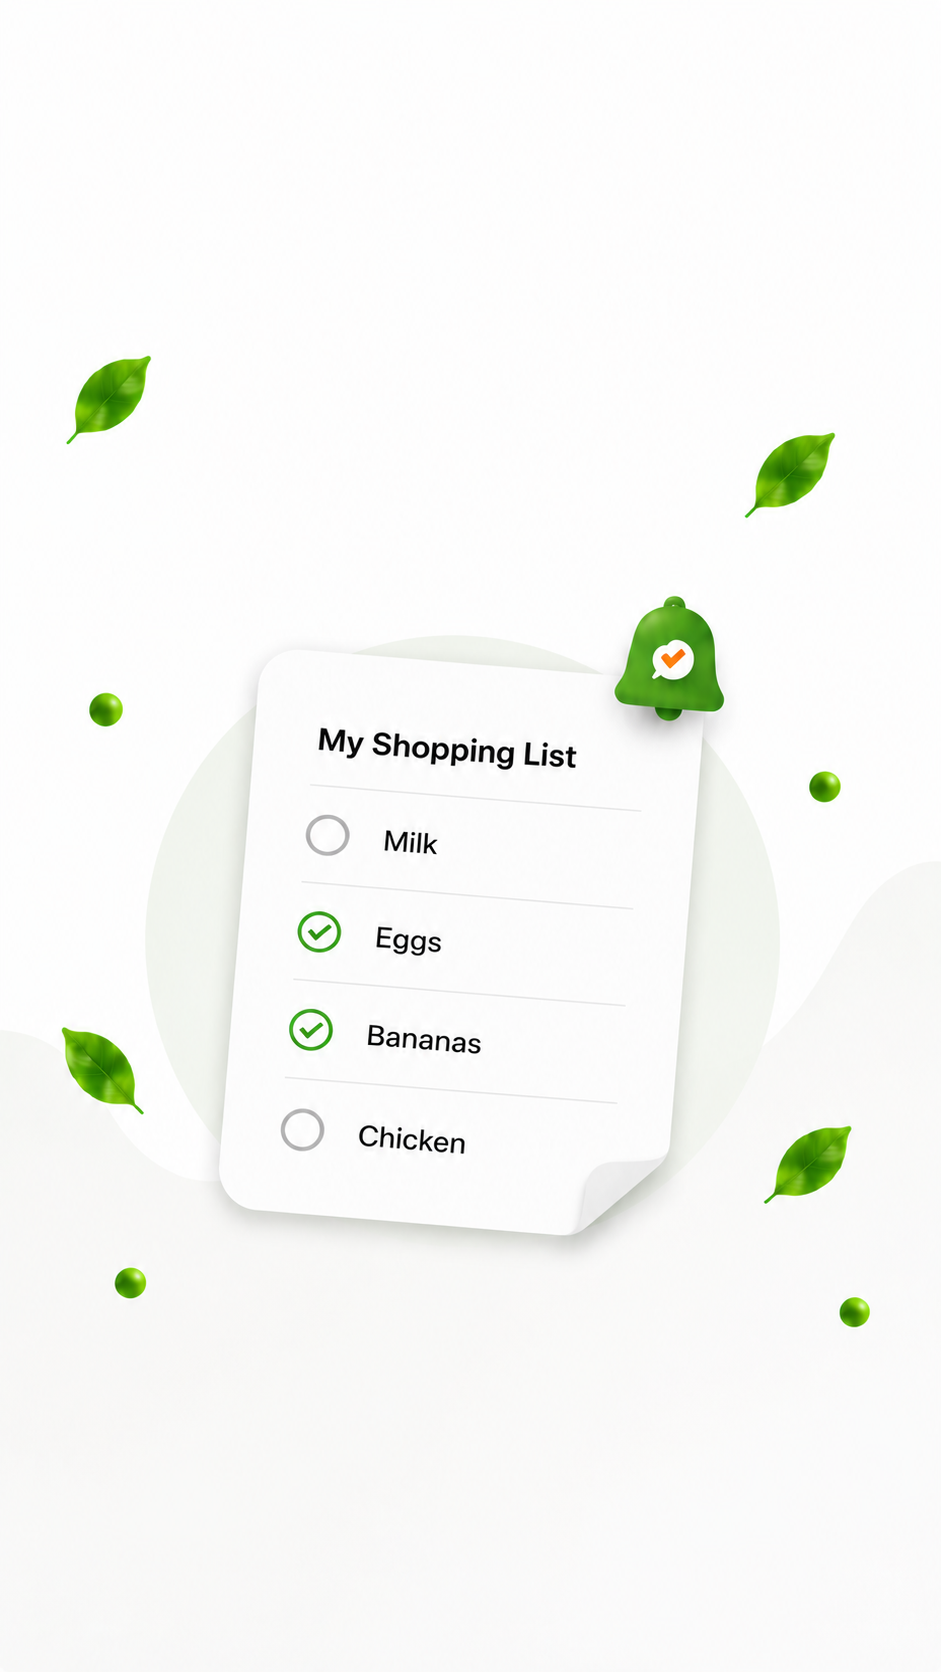
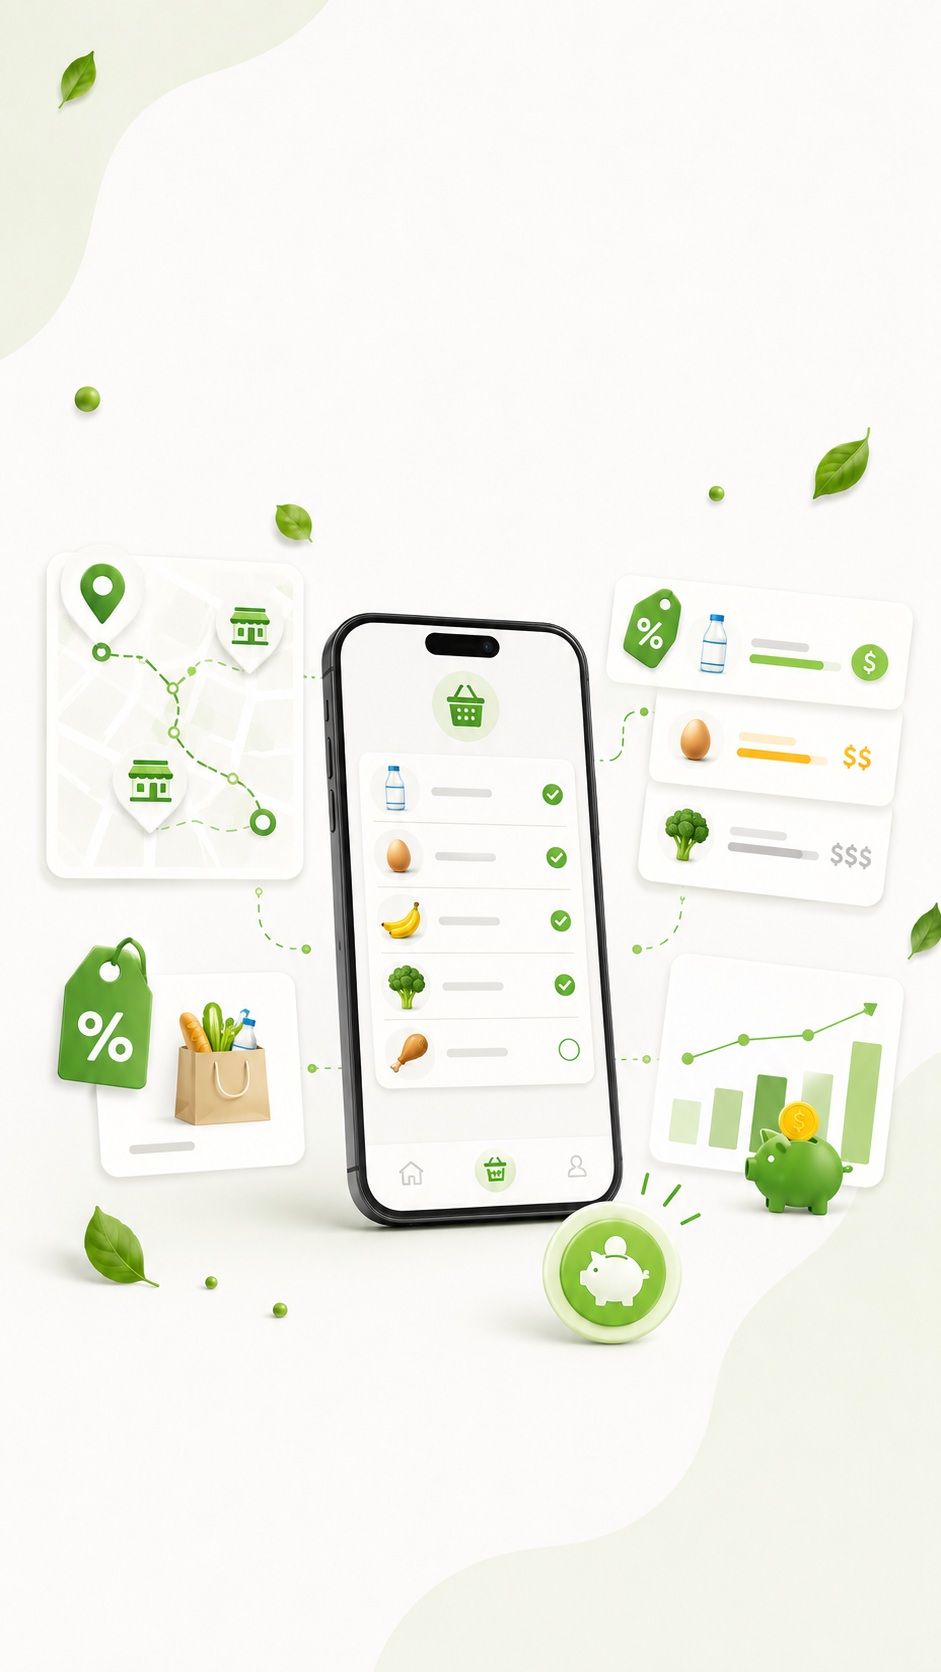
Polish smart shopping list onboarding screen

diff --git a/lib/features/onboarding/presentation/splash_screen.dart b/lib/features/onboarding/presentation/splash_screen.dart
@@ -18,12 +18,6 @@ import 'package:savingor_app/core/theme/savingor_design_system.dart';
 // Shared greens / CTA / dots use [SavingorColors] + theme-filled buttons where noted.
 // -----------------------------------------------------------------------------
 
-/// Copy colors for the final onboarding slide only (index 3); slides 0–2 use approved tokens above.
-abstract final class _OnboardingCopyColors {
-  static const Color title = Color(0xFF052E16);
-  static const Color subtitle = Color(0xFF14532D);
-}
-
 class SplashScreen extends StatefulWidget {
   const SplashScreen({super.key});
 
@@ -58,8 +52,9 @@ class _SplashScreenState extends State<SplashScreen> {
     ),
     _OnboardingPageData(
       imagePath: 'assets/images/onboarding_3.png',
-      title: 'All your lists in one place',
-      subtitle: 'Organize shopping, plan meals and never forget anything.',
+      title: 'Plan your shopping smarter',
+      subtitle:
+          'Savingor helps you plan your shopping list and see where each item is better to buy.',
       buttonLabel: 'Get Started',
     ),
   ];
@@ -101,6 +96,21 @@ class _SplashScreenState extends State<SplashScreen> {
     final current = _pages[_page];
     final firstPage = _page == 0;
 
+    final onboardingFooter = Column(
+      crossAxisAlignment: CrossAxisAlignment.stretch,
+      mainAxisSize: MainAxisSize.min,
+      children: [
+        if (firstPage) const SizedBox(height: 16),
+        _OnboardingDots(activeIndex: _page, count: _pages.length),
+        SizedBox(height: firstPage ? 24 : 16),
+        // CTA: [SavingorTheme.lightTheme] filled button (approved soft green + dark label).
+        FilledButton(
+          onPressed: _onPrimaryAction,
+          child: Text(current.buttonLabel),
+        ),
+      ],
+    );
+
     return Scaffold(
       backgroundColor: SavingorColors.background,
       body: Stack(
@@ -113,7 +123,7 @@ class _SplashScreenState extends State<SplashScreen> {
               onPageChanged: (value) => setState(() => _page = value),
               itemBuilder: (context, index) {
                 final page = _pages[index];
-                // Slide 3: full receipt illustration — contain on matte (no crop vs cover).
+                // Slide 3 (index 2): receipt illustration — contain on matte (APPROVED; unchanged).
                 if (index == 2) {
                   return ColoredBox(
                     color: SavingorColors.background,
@@ -126,6 +136,28 @@ class _SplashScreenState extends State<SplashScreen> {
                             width: constraints.maxWidth,
                             height: constraints.maxHeight,
                             alignment: Alignment.center,
+                          ),
+                        );
+                      },
+                    ),
+                  );
+                }
+                // Fourth onboarding (index 3): same contain treatment; illustration nudged down only here.
+                if (index == 3) {
+                  return ColoredBox(
+                    color: SavingorColors.background,
+                    child: LayoutBuilder(
+                      builder: (context, constraints) {
+                        return Center(
+                          child: Transform.translate(
+                            offset: const Offset(0, 28),
+                            child: Image.asset(
+                              page.imagePath,
+                              fit: BoxFit.contain,
+                              width: constraints.maxWidth,
+                              height: constraints.maxHeight,
+                              alignment: Alignment.center,
+                            ),
                           ),
                         );
                       },
@@ -159,7 +191,7 @@ class _SplashScreenState extends State<SplashScreen> {
                 22,
                 firstPage ? 72 : 12,
                 22,
-                firstPage ? 26 : 16,
+                firstPage ? 26 : (_page == 3 ? 12 : 16),
               ),
               child: Column(
                 crossAxisAlignment: CrossAxisAlignment.stretch,
@@ -171,14 +203,13 @@ class _SplashScreenState extends State<SplashScreen> {
                     pageIndex: _page,
                   ),
                   const Spacer(),
-                  if (firstPage) const SizedBox(height: 16),
-                  _OnboardingDots(activeIndex: _page, count: _pages.length),
-                  SizedBox(height: firstPage ? 24 : 16),
-                  // CTA: [SavingorTheme.lightTheme] filled button (approved soft green + dark label).
-                  FilledButton(
-                    onPressed: _onPrimaryAction,
-                    child: Text(current.buttonLabel),
-                  ),
+                  if (_page == 3)
+                    Transform.translate(
+                      offset: const Offset(0, -22),
+                      child: onboardingFooter,
+                    )
+                  else
+                    onboardingFooter,
                 ],
               ),
             ),
@@ -338,6 +369,79 @@ class _OnboardingCopy extends StatelessWidget {
     );
   }
 
+  /// Fourth onboarding slide (index 3): smart shopping list — copy over clean top of `onboarding_3`.
+  Widget _fourthSlideCopy(BuildContext context, TextTheme theme) {
+    final maxCopyW = min(
+      MediaQuery.sizeOf(context).width - 48,
+      352.0,
+    );
+    final maxSubtitleW = min(
+      MediaQuery.sizeOf(context).width - 52,
+      326.0,
+    );
+    const titleSize = 33.0;
+    const titleLineHeight = 1.14;
+    return Padding(
+      padding: const EdgeInsets.only(top: 54),
+      child: Align(
+        alignment: Alignment.topCenter,
+        child: ConstrainedBox(
+          constraints: BoxConstraints(maxWidth: maxCopyW),
+          child: Column(
+            mainAxisSize: MainAxisSize.min,
+            crossAxisAlignment: CrossAxisAlignment.center,
+            children: [
+              Text(
+                data.title,
+                textAlign: TextAlign.center,
+                style: theme.headlineMedium?.copyWith(
+                      color: SavingorColors.darkGreen,
+                      fontWeight: FontWeight.w800,
+                      fontSize: titleSize,
+                      height: titleLineHeight,
+                      letterSpacing: -0.55,
+                      shadows: titleShadows,
+                    ) ??
+                    TextStyle(
+                      color: SavingorColors.darkGreen,
+                      fontWeight: FontWeight.w800,
+                      fontSize: titleSize,
+                      height: titleLineHeight,
+                      letterSpacing: -0.55,
+                      shadows: titleShadows,
+                    ),
+              ),
+              const SizedBox(height: 13),
+              ConstrainedBox(
+                constraints: BoxConstraints(maxWidth: maxSubtitleW),
+                child: Text(
+                  data.subtitle,
+                  textAlign: TextAlign.center,
+                  style: theme.bodyLarge?.copyWith(
+                        color: SavingorColors.onboardingSubtitleDeep,
+                        fontSize: 18,
+                        height: 1.52,
+                        fontWeight: FontWeight.w600,
+                        letterSpacing: 0.04,
+                        shadows: titleShadows,
+                      ) ??
+                      TextStyle(
+                        color: SavingorColors.onboardingSubtitleDeep,
+                        fontSize: 18,
+                        height: 1.52,
+                        fontWeight: FontWeight.w600,
+                        letterSpacing: 0.04,
+                        shadows: titleShadows,
+                      ),
+                ),
+              ),
+            ],
+          ),
+        ),
+      ),
+    );
+  }
+
   /// Slide 3 — receipt copy; typography tuned for `onboarding_2` art (not slide 1/2 approved block).
   Widget _thirdSlideCopy(BuildContext context, TextTheme theme) {
     final screenW = MediaQuery.sizeOf(context).width;
@@ -466,50 +570,11 @@ class _OnboardingCopy extends StatelessWidget {
       return _thirdSlideCopy(context, theme);
     }
 
-    return Column(
-      crossAxisAlignment: CrossAxisAlignment.stretch,
-      children: [
-        Text(
-          data.title,
-          textAlign: TextAlign.center,
-          style: theme.titleLarge?.copyWith(
-                color: _OnboardingCopyColors.title,
-                fontWeight: FontWeight.w700,
-                height: 1.22,
-                letterSpacing: -0.35,
-                fontSize: 24,
-                shadows: titleShadows,
-              ) ??
-              TextStyle(
-                color: _OnboardingCopyColors.title,
-                fontWeight: FontWeight.w700,
-                height: 1.22,
-                letterSpacing: -0.35,
-                fontSize: 24,
-                shadows: titleShadows,
-              ),
-        ),
-        const SizedBox(height: 10),
-        Text(
-          data.subtitle,
-          textAlign: TextAlign.center,
-          style: theme.bodyMedium?.copyWith(
-                color: _OnboardingCopyColors.subtitle,
-                height: 1.45,
-                fontSize: 15,
-                fontWeight: FontWeight.w500,
-                shadows: titleShadows,
-              ) ??
-              TextStyle(
-                color: _OnboardingCopyColors.subtitle,
-                height: 1.45,
-                fontSize: 15,
-                fontWeight: FontWeight.w500,
-                shadows: titleShadows,
-              ),
-        ),
-      ],
-    );
+    if (pageIndex == 3) {
+      return _fourthSlideCopy(context, theme);
+    }
+
+    return const SizedBox.shrink();
   }
 }
 
